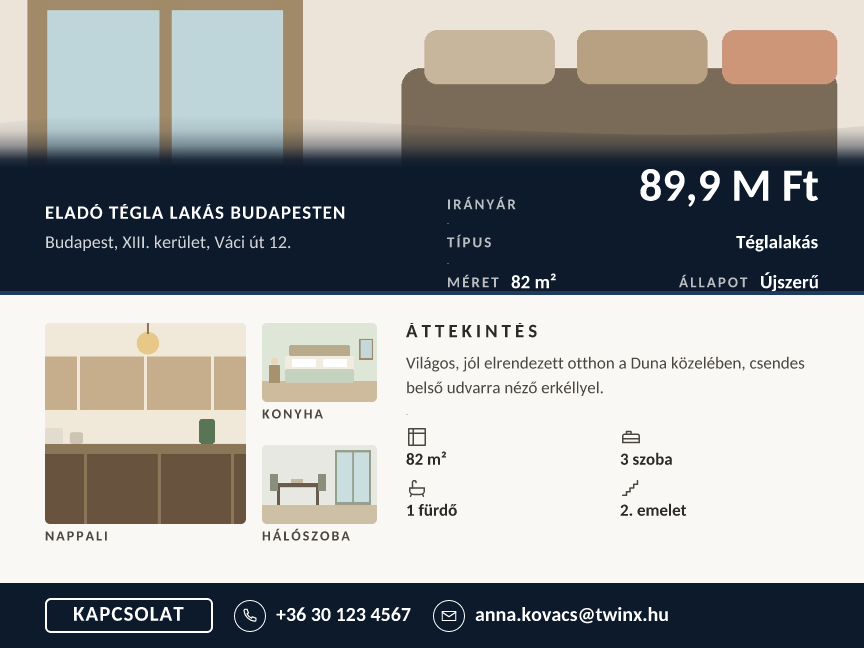
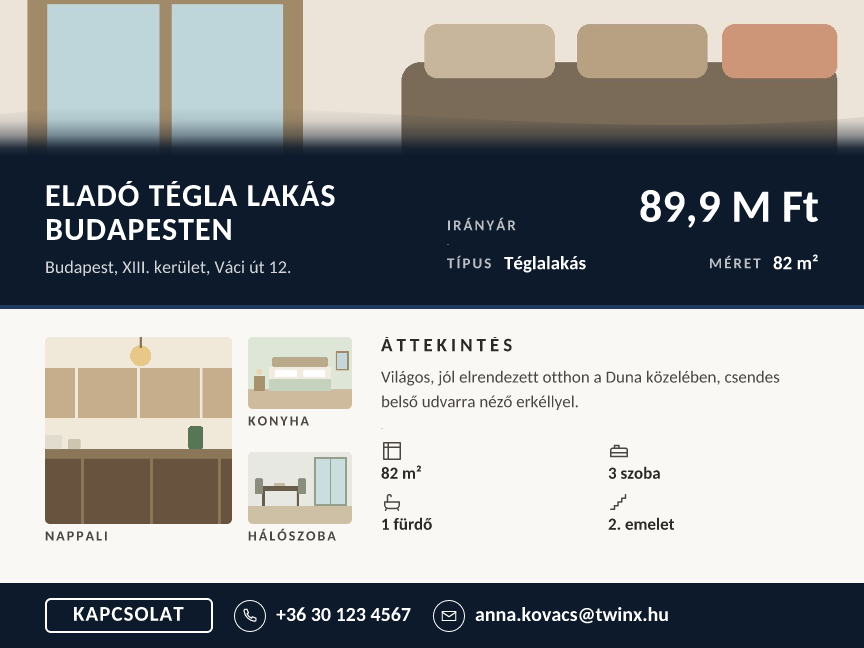
Adatlap: ÁLLAPOT sor kivéve; 4:3-on magasabb adatsáv, TÍPUS+MÉRET egy sorban

diff --git a/src/lib/flyer-satori-unit.tsx b/src/lib/flyer-satori-unit.tsx
@@ -38,8 +38,11 @@ export function buildUnitElement(o: RenderOpts, family: string): React.ReactElem
   // --- Sávok: a négy rész PONTOSAN kiadja a vászon magasságát ----------------
   // Állóban (9:16) a cím és az adattábla EGYMÁS ALATT van, ezért ott a sötét sáv
   // magasabb — különben az utolsó adatsor beleér a világos blokkba.
-  const heroH = Math.round(H * (g.story ? 0.33 : g.land ? 0.26 : 0.28));
-  const bandH = Math.round(H * (g.story ? 0.23 : g.land ? 0.19 : 0.20));
+  // FEKVŐN (4:3) magasabb a sötét sáv: a rövid vászonmagasság miatt korábban
+  // beleért az utolsó adatsor a világos blokkba. Ezzel az áttekintés és a képrács
+  // is lejjebb csúszik — csak a 4:3-at érinti.
+  const heroH = Math.round(H * (g.story ? 0.33 : g.land ? 0.24 : 0.28));
+  const bandH = Math.round(H * (g.story ? 0.23 : g.land ? 0.23 : 0.20));
   const footH = Math.round(H * (g.story ? 0.10 : g.land ? 0.10 : 0.11));
   const midH = H - heroH - bandH - footH;
   const P = Math.round((g.land ? 56 : 60) * u);
@@ -149,25 +152,35 @@ export function buildUnitElement(o: RenderOpts, family: string): React.ReactElem
 
   const typeTxt = compact(o.text.chips.filter(Boolean)[1] || "", 24);
   const sizeTxt = formatSize(d.size ?? "");
-  const condTxt = compact(d.condition || d.structure || "", 20);
 
+  // Az ÁLLAPOT sor kikerült: az ismétlődő „Újszerű / Új építésű" nem ad hozzá a
+  // hirdetéshez, viszont sávmagasságot evett. Marad a TÍPUS és a MÉRET.
+  // FEKVŐN a kettő EGY sorba kerül (mint a nyomtatott adatlapokon), így a sötét
+  // sávban nem csúszik ki az utolsó sor.
   const specRows: React.ReactElement[] = [];
-  if (typeTxt) {
+  const pair = (label: string, value: string, key: string) =>
+    box({ key, alignItems: "center", gap: Math.round(12 * u) } as Style, [
+      specLabel(label, `${key}l`), specValue(value, `${key}v`),
+    ]);
+
+  if (g.land && typeTxt && sizeTxt) {
     specRows.push(hair("h1"));
     specRows.push(box({ key: "r1", width: "100%", alignItems: "center", justifyContent: "space-between", gap: Math.round(18 * u) } as Style, [
-      specLabel("TÍPUS", "l1"), specValue(typeTxt, "v1"),
+      pair("TÍPUS", typeTxt, "p1"), pair("MÉRET", sizeTxt, "p2"),
     ]));
-  }
-  if (sizeTxt || condTxt) {
-    specRows.push(hair("h2"));
-    specRows.push(box({ key: "r2", width: "100%", alignItems: "center", justifyContent: "space-between", gap: Math.round(18 * u) } as Style, [
-      sizeTxt
-        ? box({ key: "p1", alignItems: "center", gap: Math.round(12 * u) } as Style, [specLabel("MÉRET", "l2"), specValue(sizeTxt, "v2")])
-        : null,
-      condTxt
-        ? box({ key: "p2", alignItems: "center", gap: Math.round(12 * u) } as Style, [specLabel("ÁLLAPOT", "l3"), specValue(condTxt, "v3")])
-        : null,
-    ].filter(Boolean)));
+  } else {
+    if (typeTxt) {
+      specRows.push(hair("h1"));
+      specRows.push(box({ key: "r1", width: "100%", alignItems: "center", justifyContent: "space-between", gap: Math.round(18 * u) } as Style, [
+        specLabel("TÍPUS", "l1"), specValue(typeTxt, "v1"),
+      ]));
+    }
+    if (sizeTxt) {
+      specRows.push(hair("h2"));
+      specRows.push(box({ key: "r2", width: "100%", alignItems: "center", justifyContent: "space-between", gap: Math.round(18 * u) } as Style, [
+        specLabel("MÉRET", "l2"), specValue(sizeTxt, "v2"),
+      ]));
+    }
   }
 
   const priceCol = box(
